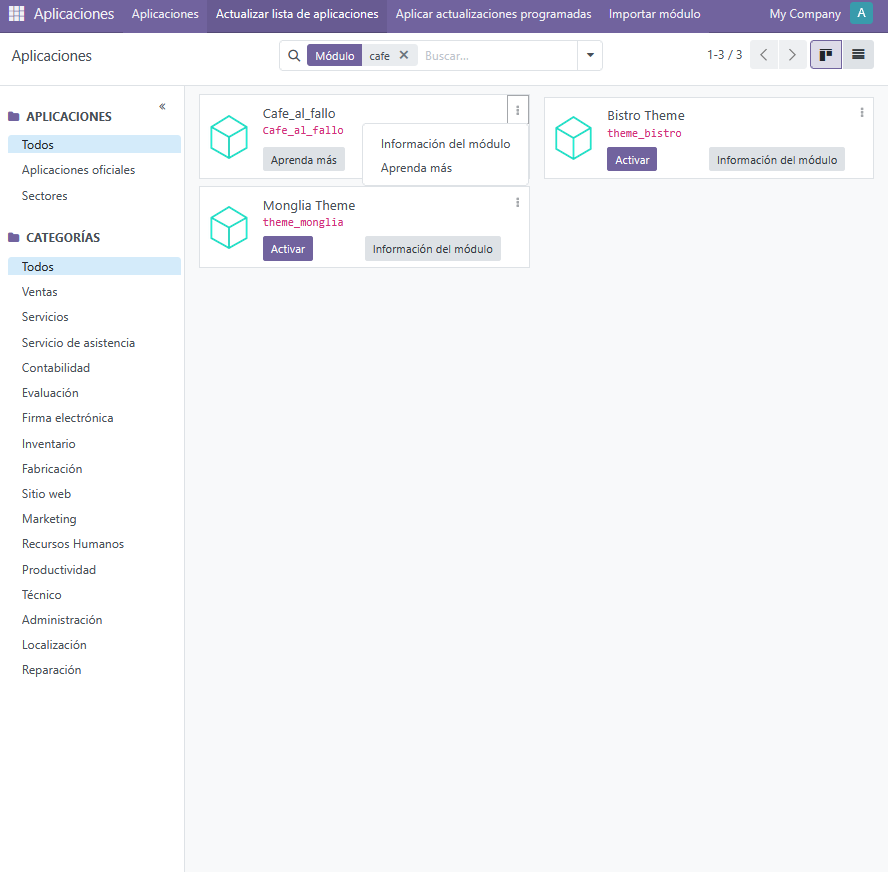
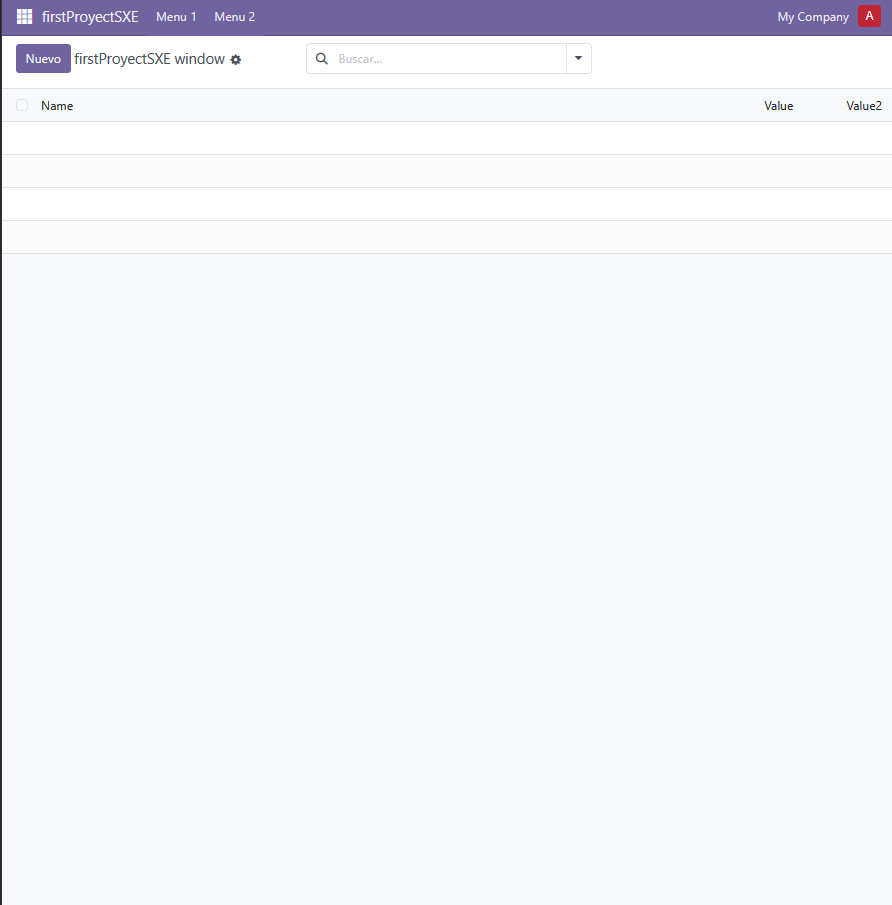
resuelto, ahora a tunearlo

diff --git a/DockerCompose/DockerComposeModulo/extra-addons/first_proyect_sxe/__manifest__.py b/DockerCompose/DockerComposeModulo/extra-addons/first_proyect_sxe/__manifest__.py
@@ -1,7 +1,7 @@
 # -*- coding: utf-8 -*-
 {
 
-    'name': "first_proyect_sxe",
+    'name': "firstProyectSXE",
     'summary': "Módulo para ver que alumno esta mas dormido 0",
 
     'description': """ 

diff --git a/DockerCompose/DockerComposeModulo/Documentacion/Readme.md b/DockerCompose/DockerComposeModulo/Documentacion/Readme.md
@@ -169,19 +169,14 @@ volumes:
 
 #### Comprobacion del modulo instalado
 
+---
+#### *Tan pronto se realiza la instalacion automaticamente ya te entra tu aplicacion*
+---
 ![img_6.png](ImagenesReadme/img_6.png)
 
 #### *Clickando en informacion podremos encontrar nuestro querido modulo*
 
 ![img_5.png](ImagenesReadme/img_5.png)
-
-#### *Comprobacion de donde esta instalado0*
-
-![img_7.png](ImagenesReadme/img_7.png)
-
-
-
-### Paso 3 (Installar nuestro modulo)
 
 
 #### ¿Que ha pasado despues de instalar nuestro modulo?
